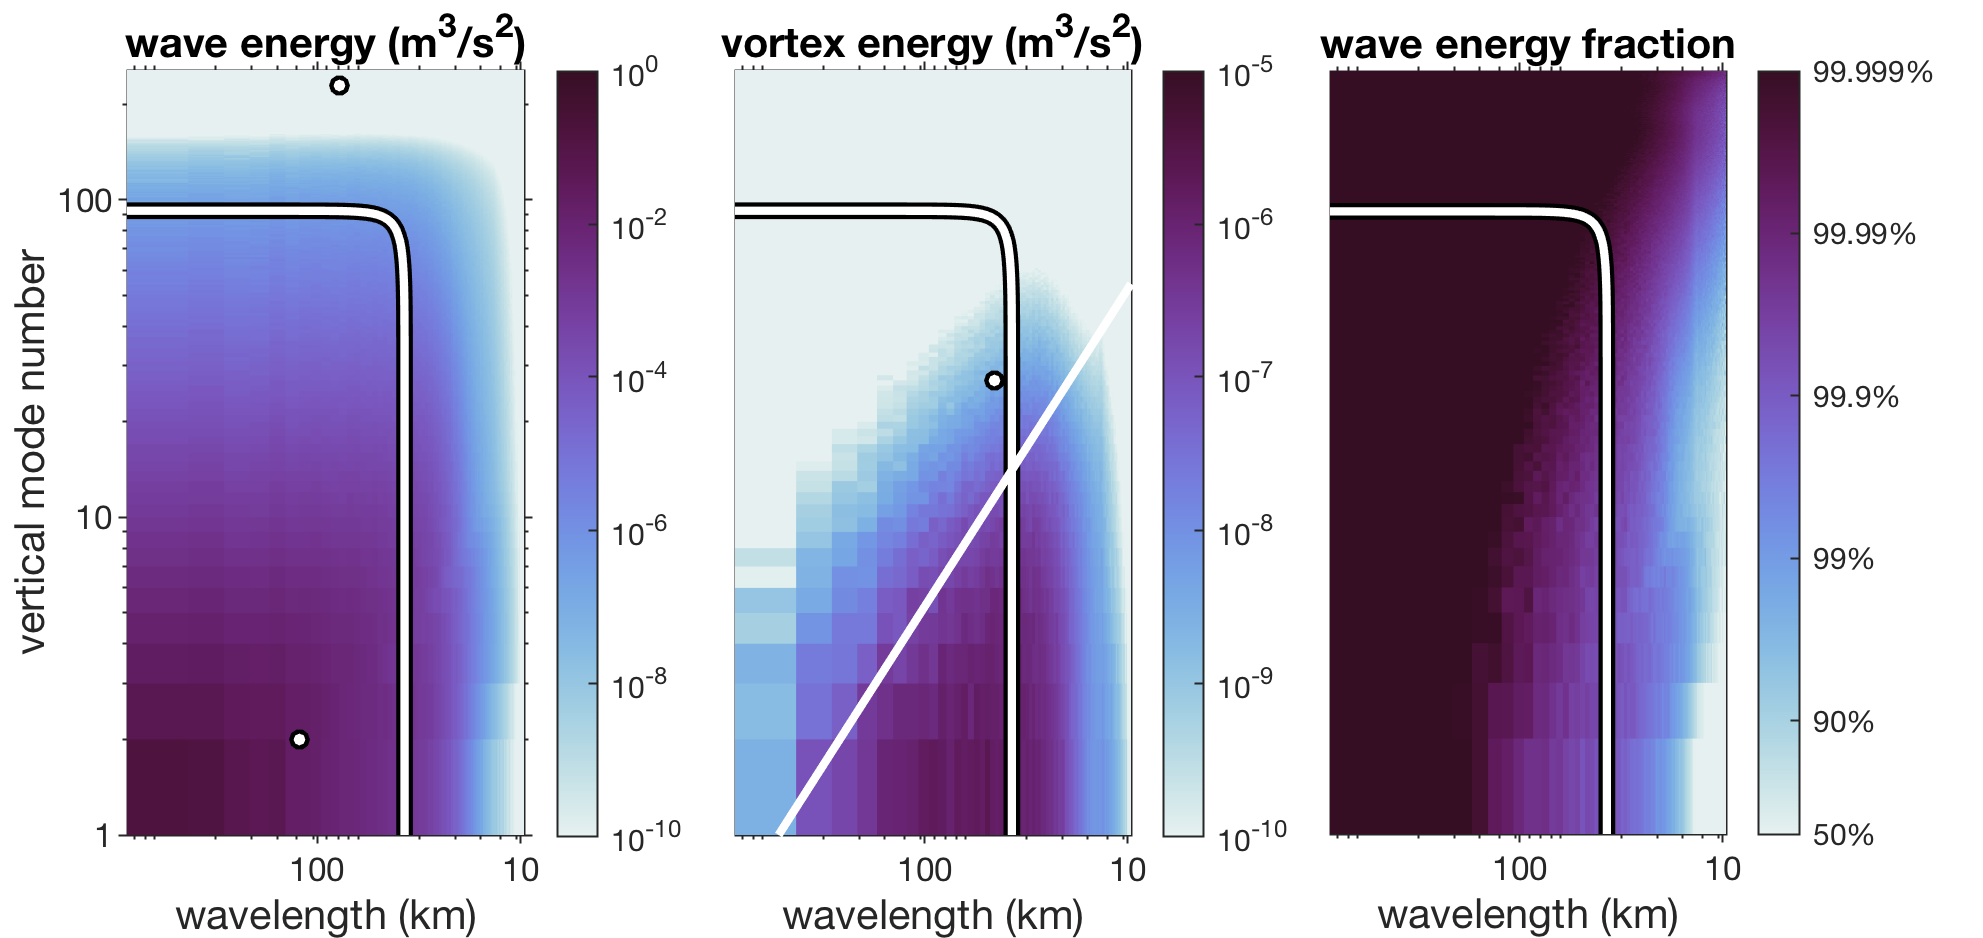
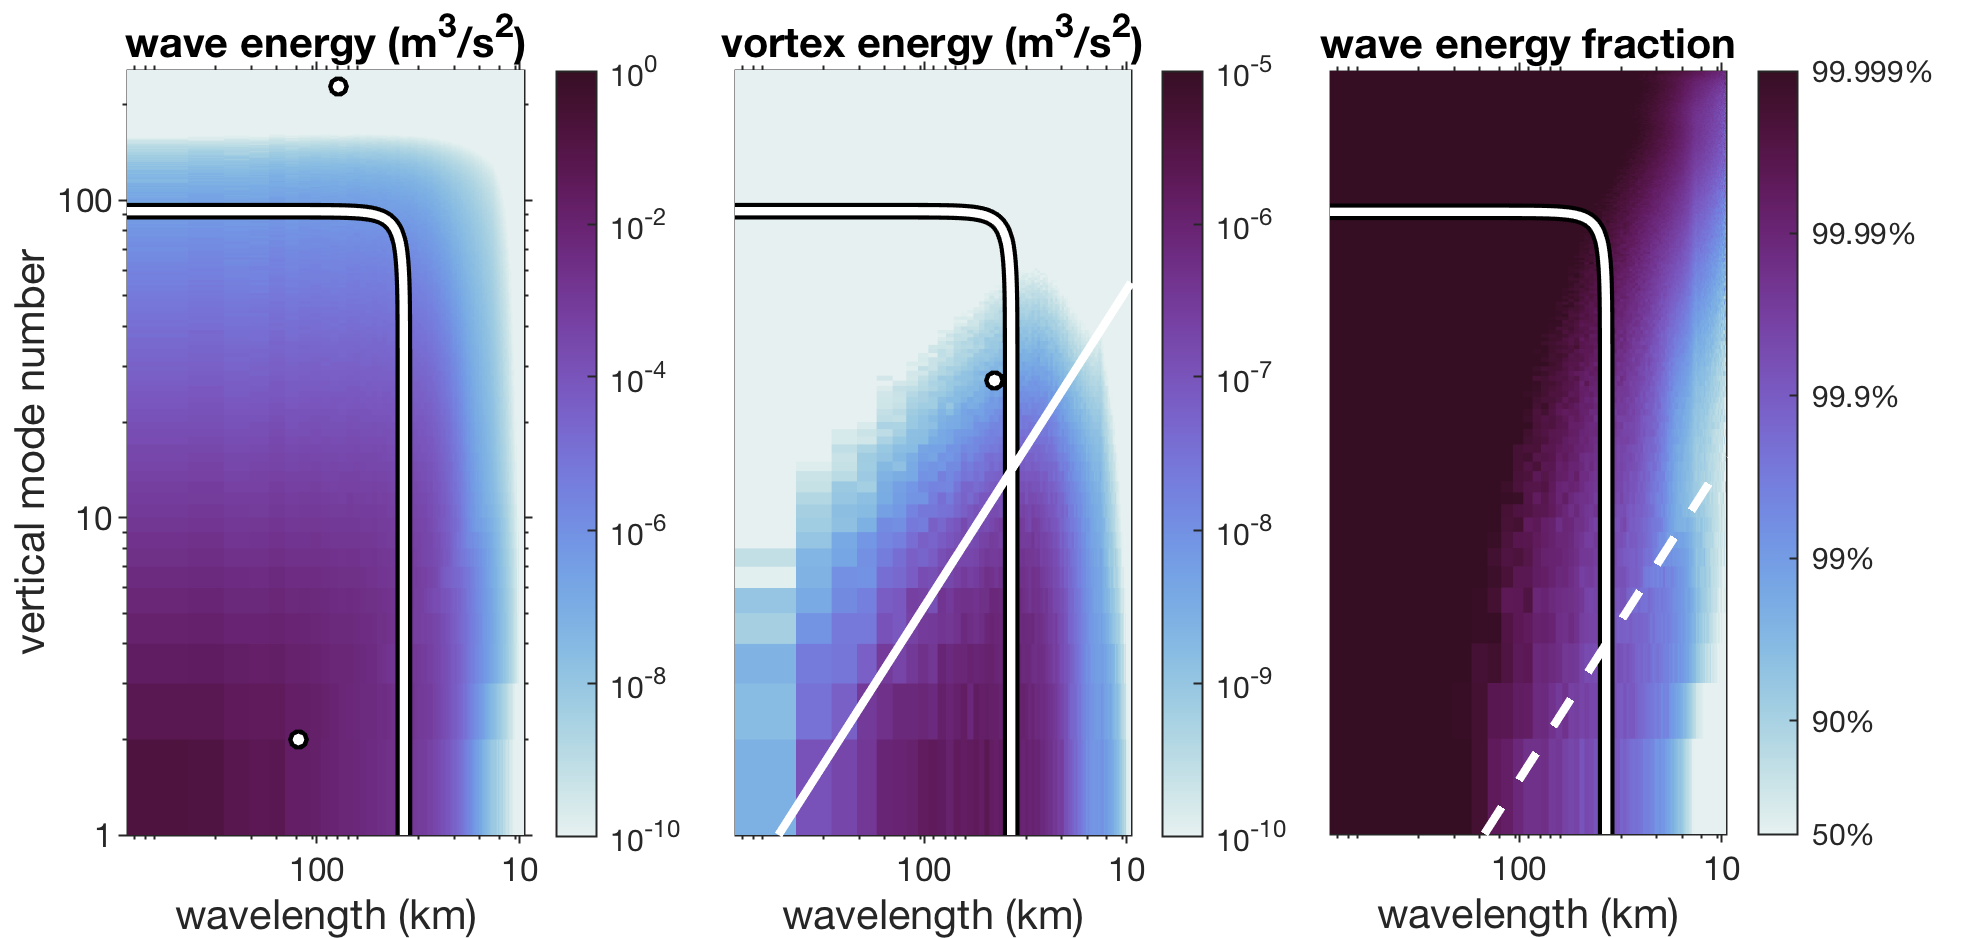
Adding line of constant frequency

diff --git a/matlab/MakeFigureKineticEnergyFractionFromRawOutput.m b/matlab/MakeFigureKineticEnergyFractionFromRawOutput.m
@@ -156,7 +156,7 @@ fig1.PaperPosition = FigureSize;
 fig1.PaperSize = [FigureSize(3) FigureSize(4)];
 
 p1 = subplot(1,3,1);
-pcolor( k, j, log10(waveHKE.') ), xlog, ylog, shading flat, hold on
+jpcolor( k, j, log10(waveHKE.') ); xlog, ylog, shading flat, hold on
 plot( k_damp, j_damp, 'LineWidth', 4, 'Color', 0*[1 1 1])
 plot( k_damp, j_damp, 'LineWidth', 2, 'Color', [1 1 1])
 scatter( k(ExampleWaveK), ExampleWaveJ, 25, 0*[1 1 1], 'filled' );
@@ -183,7 +183,7 @@ cb1.TickLabels = {'10^{-10}', '10^{-8}', '10^{-6}', '10^{-4}', '10^{-2}', '10^{0
 % ylabel(cb, 'depth integrated energy (m^3/s^2)', 'FontSize', figure_axis_label_size, 'FontName', figure_font)
 
 p2 = subplot(1,3,2);
-pcolor( k, j, log10(vortexHKE.') ), xlog, ylog, shading flat, hold on
+jpcolor( k, j, log10(vortexHKE.') ); xlog, ylog, shading flat, hold on
 plot( k_damp, j_damp, 'LineWidth', 4, 'Color', 0*[1 1 1])
 plot( k_damp, j_damp, 'LineWidth', 2, 'Color', [1 1 1])
 scatter( k(ExampleVortexK), ExampleVortexJ, 25, 0*[1 1 1], 'filled' );
@@ -198,6 +198,9 @@ xlabel('wavelength (km)', 'FontSize', figure_axis_label_size, 'FontName', figure
 
 hold on, plot(kr,j, 'LineWidth', 2.0*scaleFactor, 'Color', 1.0*[1 1 1])
 
+% [~,~,~,kk] = im.ModesAtFrequency(1.5*2*pi/86400);
+% plot( kk,1:length(kk), '--', 'LineWidth', 2.0*scaleFactor, 'Color', 1.0*[1 1 1])
+
 p2.TickDir = 'out';
 
 colormap( cmocean('dense') );
@@ -206,8 +209,6 @@ cb2 = colorbar('eastoutside');
 cb2.Ticks = [-10 -9 -8 -7 -6 -5];
 cb2.TickLabels = {'10^{-10}', '10^{-9}', '10^{-8}', '10^{-7}', '10^{-6}', '10^{-5}'};
 % ylabel(cb2, 'm^3/s^2', 'FontSize', figure_axis_label_size, 'FontName', figure_font)
-
-% print('-dpng', '-r300', sprintf('Energy-%s.png',runtype))
 
 %%%%%%%%%%%%%%%%%%%%%%%%%%%%%%%%%%%%%%%%%%%%%%%%%%%%%%%%%%%%%%%%%%%%%%%%%%%
 %
@@ -224,9 +225,12 @@ HKE_fraction = waveHKE./(waveHKE+vortexHKE);
 % fig1.PaperSize = [FigureSize(3) FigureSize(4)];
 
 p3 = subplot(1,3,3);
-pcolor( k, j, abs(log10(1-HKE_fraction.') )), xlog, ylog, shading flat, hold on
+jpcolor( k, j, abs(log10(1-HKE_fraction.') )); xlog, ylog, shading flat, hold on
 plot( k_damp, j_damp, 'LineWidth', 4, 'Color', 0*[1 1 1])
 plot( k_damp, j_damp, 'LineWidth', 2, 'Color', [1 1 1])
+
+[~,~,~,kk] = im.ModesAtFrequency(4*2*pi/86400);
+plot( kk,1:length(kk), '--', 'LineWidth', 2.0*scaleFactor, 'Color', 1.0*[1 1 1])
 
 set( gca, 'FontSize', figure_axis_tick_size);
 
@@ -257,4 +261,4 @@ p2.Position = [p2.Position(1) p2.Position(2) 0.20 p2.Position(4)];
 p3.OuterPosition = [0.66 p3.OuterPosition(2) 0.28 p3.OuterPosition(4)];
 p3.Position = [p3.Position(1) p3.Position(2) 0.20 p3.Position(4)];
 
-print('-dpng', '-r300', sprintf('EnergyAndEnergyFraction-%s.png',runtype))
+% print('-dpng', '-r300', sprintf('EnergyAndEnergyFraction-%s.png',runtype))

diff --git a/matlab/MakeFigureNonlinearity.m b/matlab/MakeFigureNonlinearity.m
@@ -74,8 +74,12 @@ fig1.PaperUnits = 'points';
 fig1.PaperPosition = FigureSize;
 fig1.PaperSize = [FigureSize(3) FigureSize(4)];
 
-pcolor( k, j, (waveHKEFromVariance./waveHKE)'), xlog, ylog, shading flat, hold on
+jpcolor( k, j, (waveHKEFromVariance./waveHKE)'); xlog, ylog, shading flat, hold on
 plot( k_damp, j_damp, 'LineWidth', 2, 'Color', [1 1 1])
+
+
+[~,~,~,kk] = im.ModesAtFrequency(4*2*pi/86400);
+plot( kk,1:length(kk), '--', 'LineWidth', 2.0*scaleFactor, 'Color', 1.0*[1 1 1])
 
 title('Wave Nonlinearity', 'FontSize', figure_axis_label_size, 'FontName', figure_font);
 
@@ -105,7 +109,7 @@ fig1.PaperUnits = 'points';
 fig1.PaperPosition = FigureSize;
 fig1.PaperSize = [FigureSize(3) FigureSize(4)];
 
-pcolor( k, j, (vortexHKEFromVariance./vortexHKE)'), xlog, ylog, shading flat, hold on
+jpcolor( k, j, (vortexHKEFromVariance./vortexHKE)'); xlog, ylog, shading flat, hold on
 plot( k_damp, j_damp, 'LineWidth', 2, 'Color', [1 1 1])
 
 title('Vortex Nonlinearity', 'FontSize', figure_axis_label_size, 'FontName', figure_font);
